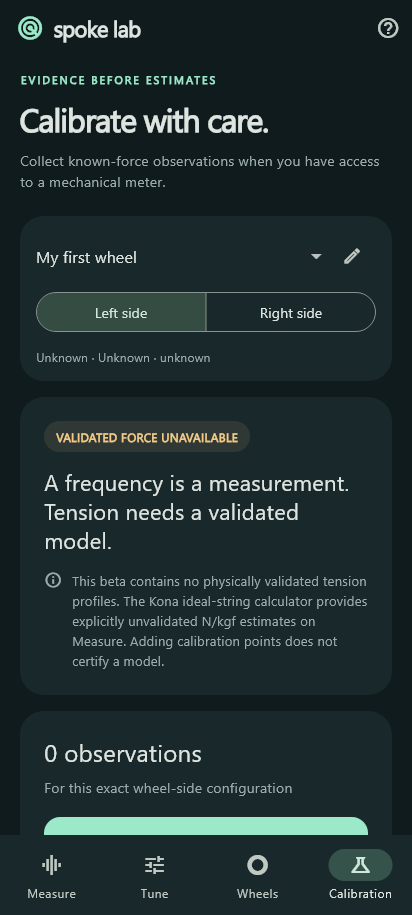
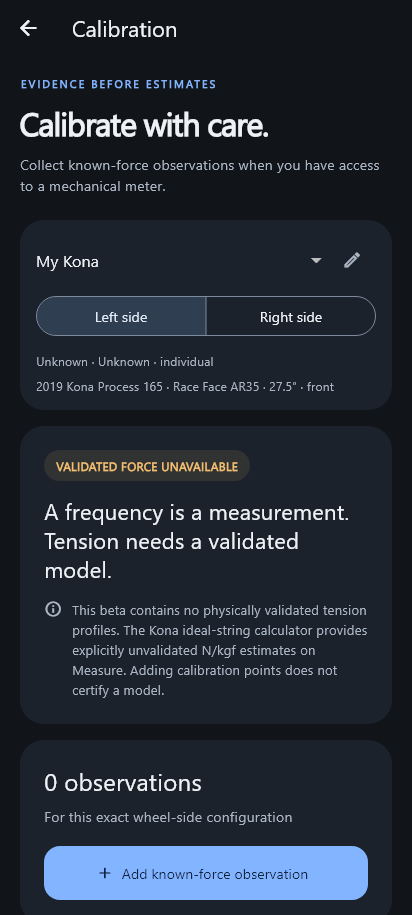
docs: refresh README and screenshots for the blue theme
Add a complete screenshot gallery, refresh secondary screens, and document the measurement workflow, Android setup, and validation limits. Verify 33 local links, 12 PNG files, and the current Flutter widget preview render.

diff --git a/README.md b/README.md
@@ -1,8 +1,27 @@
 # Spoke Lab
 
-An offline Flutter Android app for measuring bicycle spoke frequencies and comparing saved sound references. **Version 0.1 is a frequency/reference beta. It does not provide validated tension measurements or certify wheel safety.**
+An offline Flutter Android app that listens to bicycle spokes, measures their frequency, and maps saved readings to a wheel. Pluck, let the reading settle, then save and move to the next spoke. **Version 0.1 is a frequency/reference beta. It does not provide validated tension measurements or certify wheel safety.**
 
-## What is implemented
+## Screenshots
+
+The graphite and blue theme keeps Measure focused on frequency, waveform, and
+the wheel map. Amber highlights the selected spoke and cautions.
+
+| Measure and map | Inspect a saved spoke |
+| --- | --- |
+| <img src="docs/previews/measure.png" alt="Settled frequency, waveform, numbered wheel map, and Save and next control" width="300"> | <img src="docs/previews/spoke-details.png" alt="Saved frequency, repeat spread, history, and explicitly unvalidated tension estimate" width="300"> |
+
+| Wheel profiles | Sound references |
+| --- | --- |
+| <img src="docs/previews/wheels.png" alt="Wheel profiles and saved readings in the updated theme" width="300"> | <img src="docs/previews/tune.png" alt="Saved target frequency and sound comparison controls" width="300"> |
+
+<img src="docs/previews/measure-landscape.png" alt="Landscape frequency and waveform beside the interactive wheel" width="700">
+
+These previews render actual Flutter widgets with synthetic readings and host
+fonts. They are not phone captures or evidence of measurement accuracy. See the
+[complete screenshot gallery](docs/previews/README.md) and [theme research](docs/THEME.md).
+
+## Features
 
 - **Measure:** one fixed screen with frequency and waveform above an interactive numbered wheel. Repeated plucks settle to a median estimate; **Save & next** stores the selected spoke and advances while keeping the microphone open. Front/rear and left/right switches select independent maps. Tap a spoke to inspect its history or measure it again. See the [wheel-mapping workflow](docs/WHEEL_MAPPING.md).
 - **Sound references:** under the top-right tools menu, save five consistent plucks or enter a target frequency; compare Hz, percentage and cents within the same wheel-side configuration.
@@ -12,6 +31,16 @@ An offline Flutter Android app for measuring bicycle spoke frequencies and compa
 - **Experimental tension:** a separate **Tension** page contains setup and calculations; saved spoke details show any estimate attached to that reading. The setup button selects an existing Kona wheel or opens a new profile with that preset selected. The explicitly unvalidated ideal-string model starts with the owner's **272 mm** vibrating length and assumes uniform **2.0 mm steel, 7850 kg/m³**. Apply assumptions separately to each wheel side. Confirm individual contact in the profile and capture three consistent, two-window harmonic-supported fundamentals; unknown/coupled contact, short decays, spectral peaks and conflicting spoke specifications retain frequency-only behavior. Estimates and assumptions accompany saved readings and exports. See the [calculator details](docs/KONA_PROCESS_165_PRESET.md#experimental-tension-calculator).
 
 No account, server, paid service or runtime network access is needed. Audio is processed locally and discarded; only measurement metadata and frequency summaries are saved. Uninstalling removes local data: export anything you want to keep. JSON export is an archive; import is not implemented.
+
+## Measure your wheel
+
+1. Create or select a profile under **Wheels**. Presets and additional tools are also in the top-right menu.
+2. Select front/rear and left/right on **Measure**. Number spokes clockwise from the valve, viewed from the selected side; a 32-spoke wheel normally has 16 indexed positions per side in this app.
+3. Keep the wheel stationary and unloaded. Start listening in a quiet space, hold the phone near the spoke without touching it, and pluck gently.
+4. Let each ring decay and repeat the same spoke until **SETTLED** appears. Choose **Save & next** to record it, or use the arrow to skip without saving.
+5. Tap a numbered spoke for its details or to measure it again. Find **Sound references**, **Calibration**, and **Capture settings** in the tools menu; calculation settings are on **Tension**.
+
+Saved and settled states describe data capture and repeatability; they do not establish correct tension. See the [wheel-mapping guide](docs/WHEEL_MAPPING.md).
 
 ## Run on Android
 
@@ -24,7 +53,7 @@ flutter devices
 flutter run -d <android-device-id>
 ```
 
-Use USB debugging on a real phone for acoustic tests. A simulator is insufficient for microphone and physical validation. See [device validation](docs/DEVICE_VALIDATION.md) before using a wheel.
+Open the repository root in Android Studio with the Flutter and Dart plugins enabled, and choose an Android device as the run target. Use USB debugging on a real phone for acoustic tests. A simulator is insufficient for microphone and physical validation. See [device validation](docs/DEVICE_VALIDATION.md) before using a wheel.
 
 ```sh
 dart format lib test integration_test test_driver tools/direct_test_runner.dart
@@ -34,7 +63,7 @@ flutter test integration_test/app_test.dart -d <android-device-id>
 flutter build apk --debug
 ```
 
-The debug APK normally appears at `build/app/outputs/flutter-apk/app-debug.apk`. A diagnostic update was installed and opened on the owner's OnePlus 15 (CPH2745, Android 16); the owner confirmed microphone-level movement and prompt frequency detection. The diagnostic update reused the existing debug APK's native code with a newly compiled Dart kernel because this session cannot run the normal Flutter build. Full device integration tests and physical accuracy validation remain outstanding. Release signing still uses the Flutter template's debug key; configure your own signing before distribution.
+The debug APK normally appears at `build/app/outputs/flutter-apk/app-debug.apk`. A diagnostic update was installed and opened on the owner's OnePlus 15 (CPH2745, Android 16); the owner confirmed microphone-level movement and prompt frequency detection. The diagnostic update reused the existing debug APK's native code with a newly compiled Dart kernel because this session cannot run the normal Flutter build. That initial check preceded the latest dashboard/theme, which has not yet been verified on the phone. Full device integration tests and physical accuracy validation remain outstanding. Release signing still uses the Flutter template's debug key; configure your own signing before distribution.
 
 If Flutter's runner cannot start child processes on Windows, a diagnostic fallback executes the same unit/widget tests directly in Flutter's engine:
 
@@ -43,6 +72,13 @@ If Flutter's runner cannot start child processes on Windows, a diagnostic fallba
 ```
 
 This fallback uses test framework internals, supports the current tests, and does not replace device integration tests or a normal build.
+
+## Verification status
+
+- **65 unit/widget tests pass**, covering DSP, persistence, microphone lifecycle, wheel mapping, and compact/large-text/landscape layouts.
+- Static analysis is clean. The updated screenshot gallery renders from the current Flutter widgets with injected example data.
+- The checked core theme text/surface pairs exceed **4.5:1** contrast; this is not a full accessibility-conformance claim.
+- Physical frequency error, mechanical tension accuracy, and full device integration tests remain unverified. See [device validation](docs/DEVICE_VALIDATION.md).
 
 ## Measurement assumptions
 
@@ -62,10 +98,4 @@ An ideal uniform string obeys `T = 4 μ L² f²`; actual spokes introduce stiffn
 | `lib/data/` | Immutable records, JSON persistence and exports |
 | `test/`, `integration_test/` | Software checks and device smoke test |
 
-See [implementation and validation status](docs/IMPLEMENTATION_STATUS.md) for passed checks, remaining work and design decisions. `AGENTS.md` was preserved as requested.
-
-## Preview
-
-Rendered from actual Flutter widgets using injected measurement data; host fonts differ from Android.
-
-<img src="docs/previews/measure.png" alt="Settled frequency and interactive spoke wheel" width="300"> <img src="docs/previews/spoke-details.png" alt="Saved spoke frequency history and experimental tension" width="300">
+See [implementation and validation status](docs/IMPLEMENTATION_STATUS.md) for passed checks, remaining work and design decisions. Contributor instructions are in [AGENTS.md](AGENTS.md).

diff --git a/docs/previews/README.md b/docs/previews/README.md
@@ -1,0 +1,43 @@
+# Screenshot Gallery
+
+These images render the current Flutter widgets in the graphite and blue theme.
+Measurements are synthetic examples; the reference target is manually entered.
+Host fonts differ from Android. These are UI previews, not phone captures,
+accuracy tests, or evidence of safe spoke tension.
+
+## Measure
+
+| Ready to listen | Settled reading and wheel map |
+| --- | --- |
+| <img src="measure-empty.png" alt="Measure screen before recording a spoke" width="300"> | <img src="measure.png" alt="Settled frequency, waveform, saved spokes, and selected spoke" width="300"> |
+
+<img src="measure-landscape.png" alt="Landscape frequency and wheel dashboard" width="700">
+
+## Spoke details and tension
+
+| Saved spoke details | Separate Tension page |
+| --- | --- |
+| <img src="spoke-details.png" alt="Spoke history and unvalidated saved tension estimate" width="300"> | <img src="kona-tension.png" alt="Experimental tension estimate on its dedicated page" width="300"> |
+
+<img src="kona-assumptions.png" alt="Acknowledgement and vibrating length for experimental Kona assumptions" width="300">
+
+`measure-tension.png` is retained as a compatibility filename for existing links;
+it shows the separate Tension page.
+
+## Wheel setup and references
+
+| Wheel profiles and records | Kona preset setup |
+| --- | --- |
+| <img src="wheels.png" alt="Wheel profile and stored spoke readings" width="300"> | <img src="kona-preset.png" alt="Kona preset form with an unconfirmed spoke count" width="300"> |
+
+| Sound references | Capture sensitivity |
+| --- | --- |
+| <img src="tune.png" alt="Manually entered example reference frequency" width="300"> | <img src="capture-settings.png" alt="Microphone level and sensitivity settings" width="300"> |
+
+## Calibration evidence collection
+
+<img src="calibration.png" alt="Known-force observation collection with validated force unavailable" width="300">
+
+See [theme research](../THEME.md), [wheel mapping](../WHEEL_MAPPING.md), and
+[device validation](../DEVICE_VALIDATION.md). Return to the
+[project README](../../README.md).
